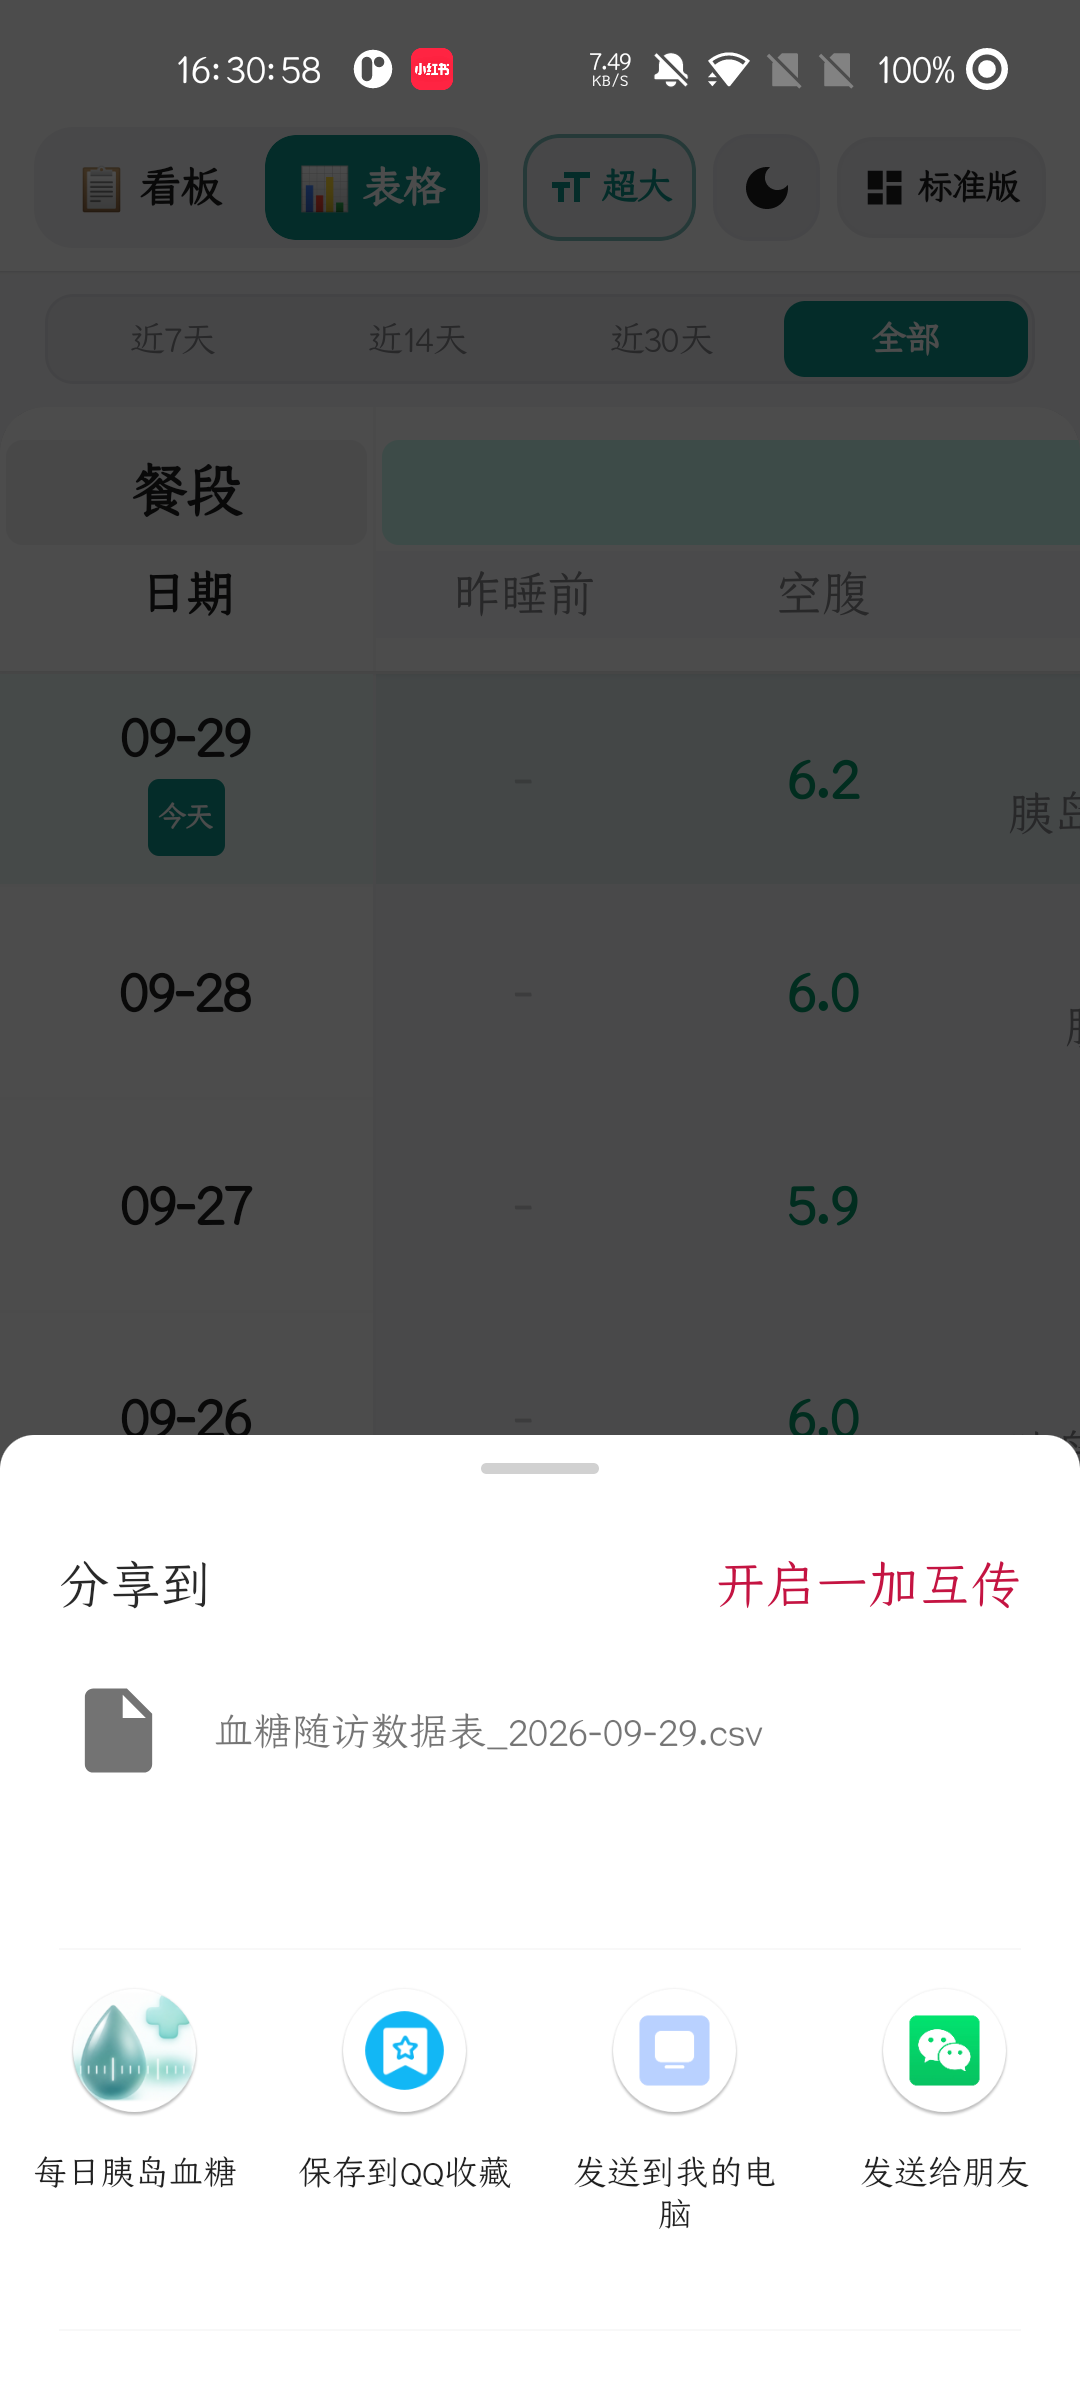
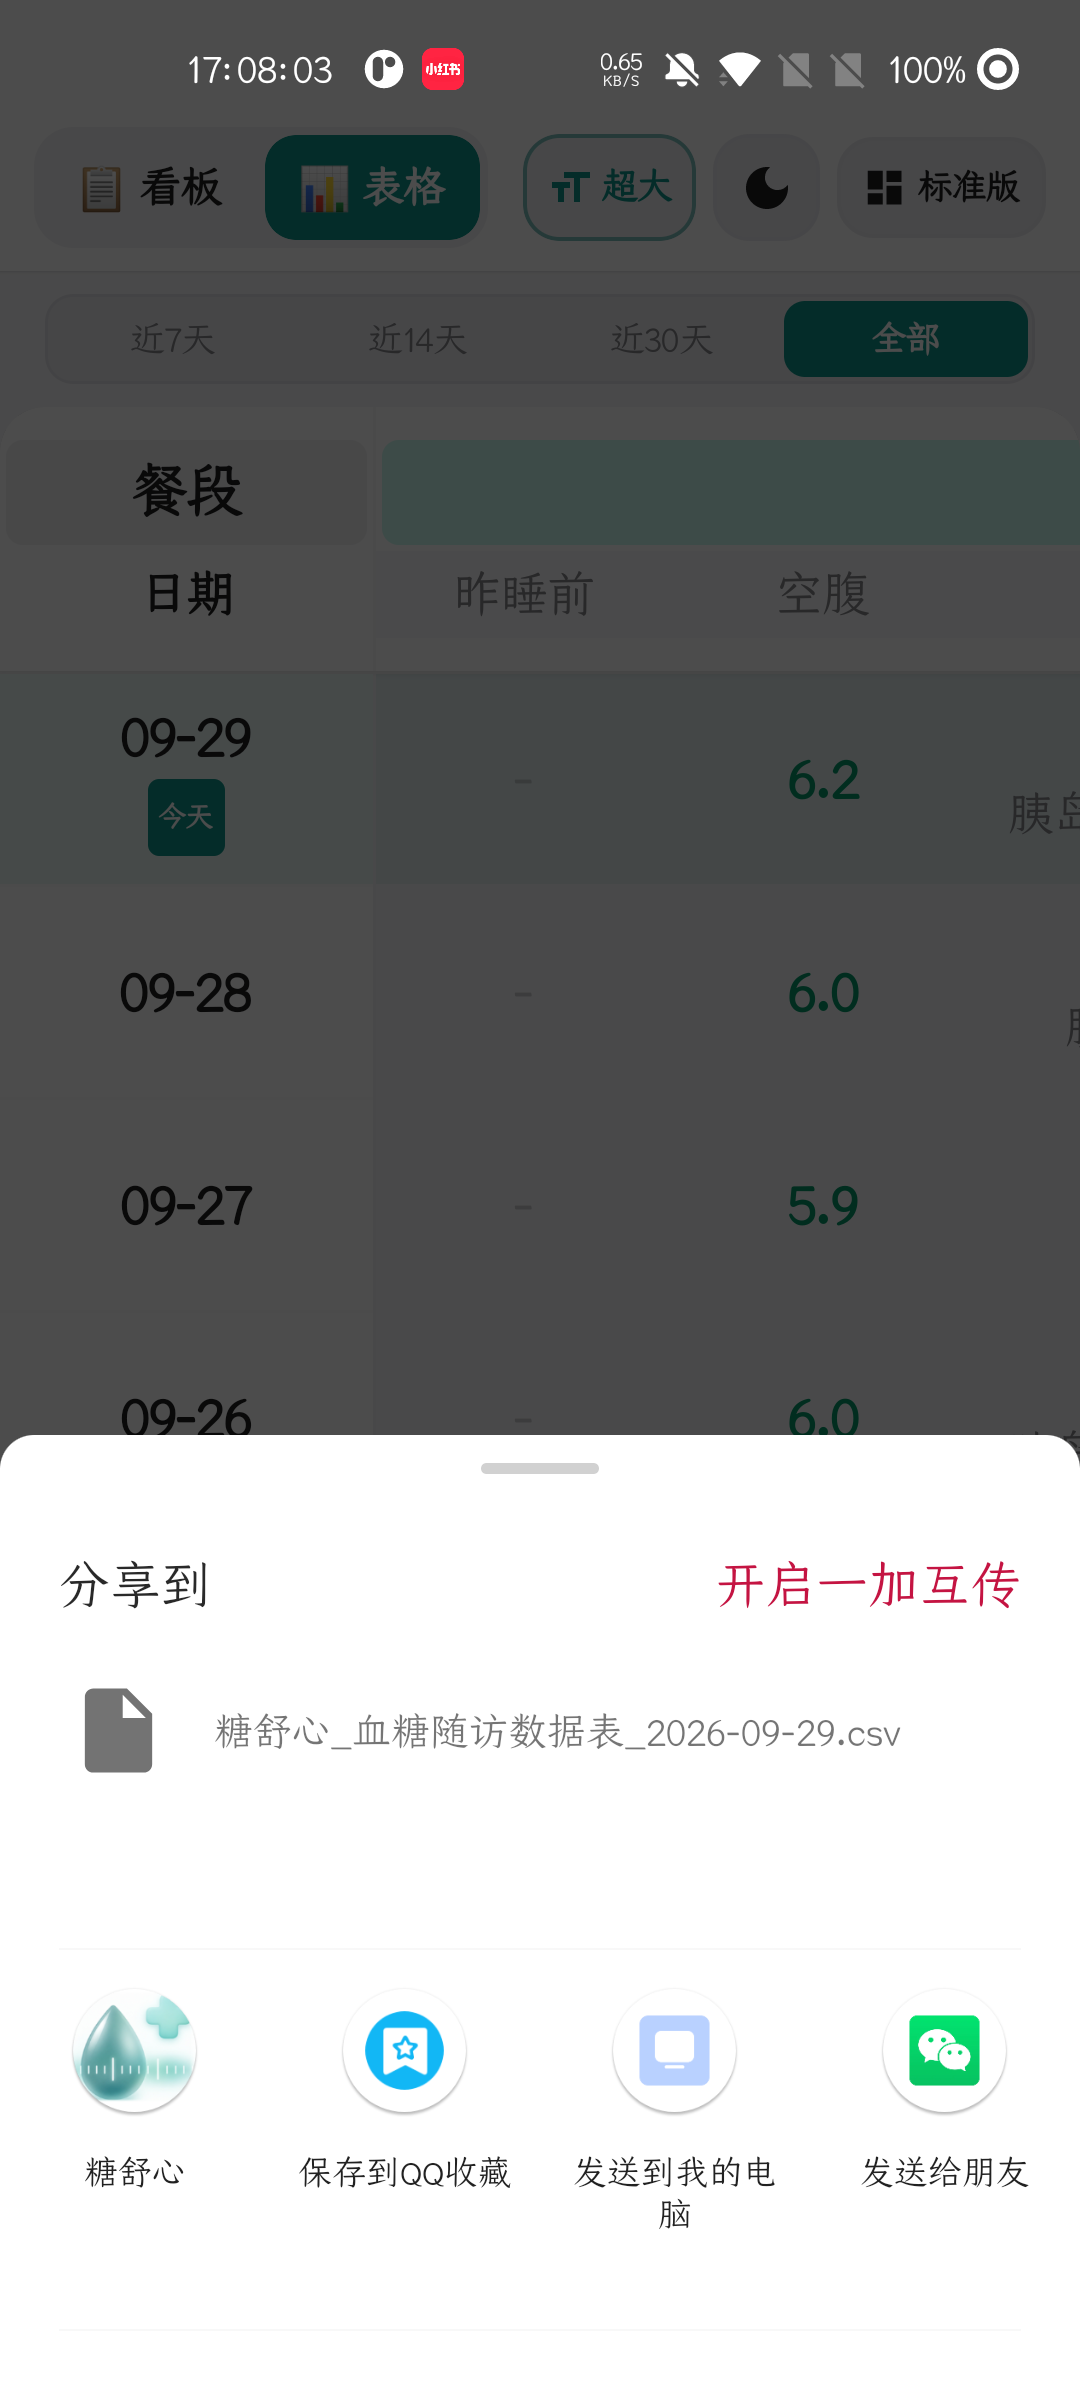
feat(branding): rename application to 糖舒心 (GlucoDaily) across app, strings, doctor export and docs

diff --git a/app/src/main/java/com/example/data/DoctorReportShareHelper.kt b/app/src/main/java/com/example/data/DoctorReportShareHelper.kt
@@ -35,7 +35,7 @@ object DoctorReportShareHelper {
      */
     fun buildDoctorTextReport(records: List<InsulinRecord>, rangeDescription: String = ""): String {
         if (records.isEmpty()) {
-            return "【每日胰岛血糖 · 随访报表】\n当前周期暂无测量记录。"
+            return "【糖舒心 · 随访报表】\n当前周期暂无测量记录。"
         }
 
         val sortedRecords = records.sortedByDescending { it.date }
@@ -77,7 +77,7 @@ object DoctorReportShareHelper {
         val tirPercent = if (allBgs.isNotEmpty()) ((inRangeCount * 100f) / allBgs.size).toInt() else 0
 
         val sb = StringBuilder()
-        sb.append("📋【每日胰岛血糖 · 随访数据报表】\n")
+        sb.append("📋【糖舒心 · 随访数据报表】\n")
         sb.append("📅 随访周期：$earliest 至 $latest")
         if (rangeDescription.isNotBlank()) sb.append("（$rangeDescription，共 ${records.size} 天）")
         sb.append("\n\n")
@@ -216,7 +216,7 @@ object DoctorReportShareHelper {
 
         try {
             val today = LocalDate.now().format(DateTimeFormatter.ISO_LOCAL_DATE)
-            val fileName = "血糖随访数据表_${today}.csv"
+            val fileName = "糖舒心_血糖随访数据表_${today}.csv"
             val csvFile = createDoctorCsvFile(context, records, fileName)
             val textReport = buildDoctorTextReport(records, rangeDescription)
 
@@ -230,7 +230,7 @@ object DoctorReportShareHelper {
                 type = "text/comma-separated-values"
                 putExtra(Intent.EXTRA_STREAM, fileUri)
                 putExtra(Intent.EXTRA_TEXT, textReport)
-                putExtra(Intent.EXTRA_SUBJECT, "患者血糖与胰岛素随访数据表 ($rangeDescription)")
+                putExtra(Intent.EXTRA_SUBJECT, "糖舒心 · 患者血糖与胰岛素随访数据表 ($rangeDescription)")
                 addFlags(Intent.FLAG_GRANT_READ_URI_PERMISSION)
             }
 

diff --git a/app/src/main/java/com/example/ui/InsulinTrackerScreen.kt b/app/src/main/java/com/example/ui/InsulinTrackerScreen.kt
@@ -419,7 +419,7 @@ fun InsulinTrackerScreen(
                             )
 
                             Text(
-                                text = "每日胰岛血糖",
+                                text = "糖舒心",
                                 fontSize = 16.sp,
                                 fontWeight = FontWeight.SemiBold,
                                 letterSpacing = (-0.38).sp,

diff --git a/app/src/test/java/com/example/ExampleRobolectricTest.kt b/app/src/test/java/com/example/ExampleRobolectricTest.kt
@@ -21,7 +21,7 @@ class ExampleRobolectricTest {
   fun `read string from context`() {
     val context = ApplicationProvider.getApplicationContext<Context>()
     val appName = context.getString(R.string.app_name)
-    assertEquals("每日胰岛血糖", appName)
+    assertEquals("糖舒心", appName)
   }
 
   @Test

diff --git a/README.md b/README.md
@@ -2,7 +2,7 @@
 
 ![GlucoDaily Logo](./docs/images/app_logo.png)
 
-# GlucoDaily · 每日胰岛血糖
+# GlucoDaily · 糖舒心
 
 **专为糖友与银发长辈量身打造的端侧离线智能控糖助手 · 双模无障碍 · 隐私安全**
 
@@ -27,7 +27,7 @@
 
 ## 📖 项目简介 (Overview)
 
-**GlucoDaily（每日胰岛血糖）** 是一款基于 **Kotlin + Jetpack Compose** 构建的现代化 Android 血糖与胰岛素随访管理应用。
+**GlucoDaily（糖舒心）** 是一款基于 **Kotlin + Jetpack Compose** 构建的现代化 Android 血糖与胰岛素随访管理应用。
 
 很多中老年及慢病患者在日常控糖中，常面临传统健康应用**“界面字号太小看不清”、“操作步骤繁琐”、“满屏弹窗广告”、“健康隐私上传云端泄露”**等痛点。**GlucoDaily** 从零重新思考慢病管理交互，首创**“标准专业模式 + 适老关怀模式”**无缝切换，并搭载 **100% 本地端侧离线语音大模型**，无需打字，说一句话即可自动分拣血糖、胰岛素、用药与运动，守护家人健康与隐私。
 

diff --git a/USER_GUIDE.md b/USER_GUIDE.md
@@ -1,4 +1,4 @@
-# 📖 GlucoDaily（每日胰岛血糖）全功能详细使用说明书
+# 📖 GlucoDaily（糖舒心）全功能详细使用说明书
 
 <div align="center">
 
@@ -45,7 +45,7 @@
 
 <div align="center">
 
-| 权限用途 | 传统云端健康 App | GlucoDaily（每日胰岛血糖） |
+| 权限用途 | 传统云端健康 App | GlucoDaily（糖舒心） |
 | :--- | :--- | :--- |
 | **数据传输** | 上传到远程服务器转写 | **100% 手机芯片本地推理，零上传** |
 | **网络要求** | 必须联网或 WiFi | **断网、飞行模式下依然秒级识别** |
